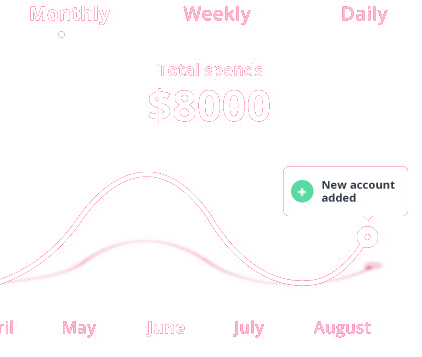
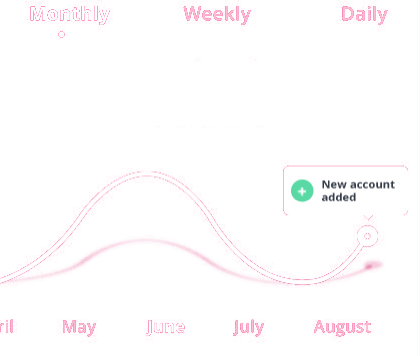
fix navbar on android (main view does not extend under the transparent navbar and seem odd)

diff --git a/src/controllers/MainScreen.js b/src/controllers/MainScreen.js
@@ -15,7 +15,7 @@ const {
     StatusBar,
     TextInput,
     Animated,
-    Alert
+    Platform
 } = require('react-native')
 
 import TiltedView from '../views/TiltedView'
@@ -128,7 +128,7 @@ var animatedColor = new Animated.Value(0)
   
     render() {
         return (
-            <View style={styles.containerOuter}>
+            <View style={[styles.containerOuter, Platform.OS == 'android' && { marginTop: -56, paddingTop: 56 }]}>
                 <StatusBar barStyle="light-content"/>
                 <Animated.View style={[styles.container, styles.containerMain, { transform: [{translateY: this.transformInterpolate() }] }]}>
                     <Animated.View style={[styles.containerTop, {backgroundColor: this.colorInterpolate()}]}>
@@ -167,8 +167,6 @@ const styles = StyleSheet.create({
         flex: 1
     },
     containerOuter: {
-        marginTop: -56,
-        paddingTop: 56,
         flex: 1,
         backgroundColor: globalVariables.green,
     },
